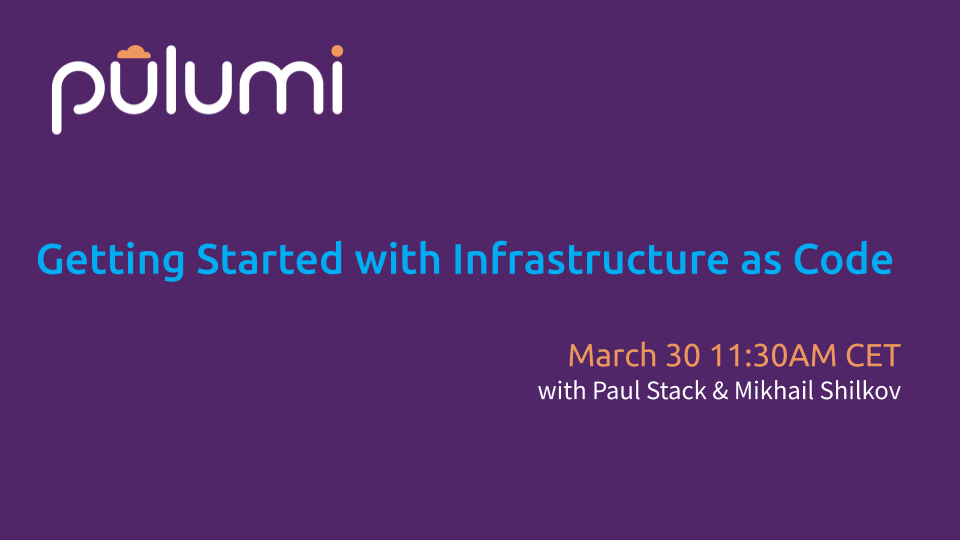
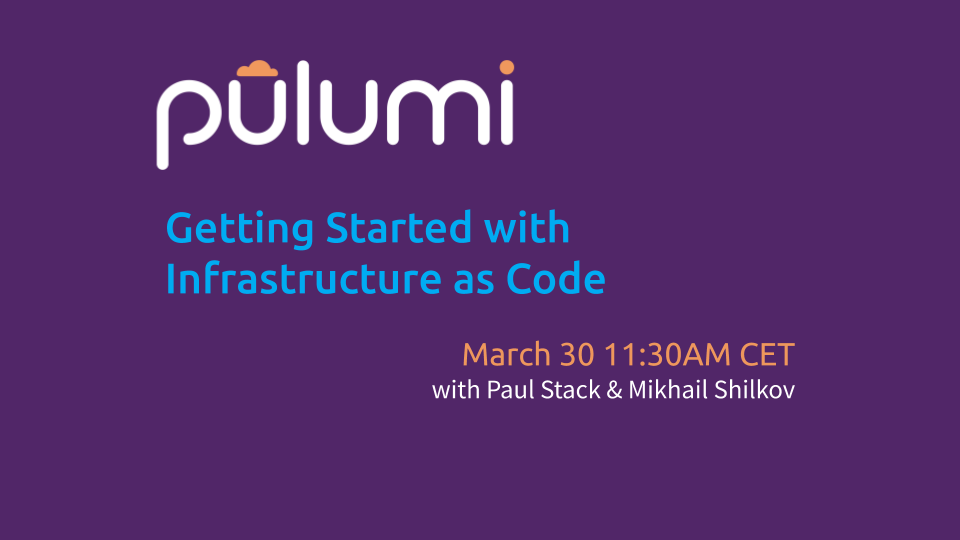
Address feedback

Changed region(s): [[0.0312, 0.3852, 0.9375, 0.563], [0.0312, 0.0889, 0.5312, 0.3259], [0.4375, 0.6222, 0.9375, 0.7407]]

diff --git a/layouts/partials/webinar-list-item.html b/layouts/partials/webinar-list-item.html
@@ -1,17 +1,23 @@
 <li class="w-full md:w-1/2 lg:w-1/3 m-0 p-2">
     <article class="rounded shadow-md bg-white border border-gray-200 mb-10 flex flex-col mx-auto" style="max-width: 320px;">
         <div style="height: 239px;">
-            <div class="w-full h-full bg-contain bg-no-repeat bg-center bg-purple-500" style="background-image: url('{{ .Params.preview_image }}');"></div>
+            {{ if .Params.external }}
+            <a href="{{ .Params.url_slug }}">
+            {{ else }}
+            <a class="text-2xl" href="/webinar/{{ .Params.url_slug }}/">
+            {{ end }}
+                <div class="w-full h-full bg-contain bg-no-repeat bg-center bg-black" style="background-image: url('{{ .Params.preview_image }}');"></div>
+            </a>
         </div>
         <div class="h-32 p-3">
             <h3>
                 {{ if .Params.external }}
-                    <a class="text-2xl" target="_blank" rel="noopener noreferrer" href="{{ .Params.url_slug }}">
+                    <a class="text-xl" target="_blank" rel="noopener noreferrer" href="{{ .Params.url_slug }}">
                         {{ .Params.title }}
                         <i class="text-sm ml-2 fas fa-external-link-alt"></i>
                     </a>
                 {{ else }}
-                    <a class="text-2xl" href="/webinar/{{ .Params.url_slug }}/">
+                    <a class="text-xl" href="/webinar/{{ .Params.url_slug }}/">
                         {{ .Params.title }}
                     </a>
                 {{ end }}

diff --git a/content/webinar/ephemeral-kubernetes/index.md b/content/webinar/ephemeral-kubernetes/index.md
@@ -57,13 +57,4 @@ main:
     # A bullet point list containing what the user will learn during the webinar.
     learn:
         - How to use Pulumi in CI/CD and development to provision, manage, and test Kubernetes clusters and their applications.
-
-# The right hand side webinar setion.
-form:
-    # GoToWebinar webinar key. This key allows us to register people for webinars via the
-    # HubSpot form.
-    gotowebinar_key: ""
-
-    # HubSpot form id.
-    hubspot_form_id: ""
 ---

diff --git a/content/webinar/aws-fargate-and-pulumi/index.md b/content/webinar/aws-fargate-and-pulumi/index.md
@@ -62,10 +62,4 @@ main:
         - How using general purpose programming languages provides familiar and powerful programming concepts
         - How Pulumi can help build a library of code packages to enhance efficiency
         - Best practices for becoming a deployment-focused organization
-
-# The right hand side webinar setion.
-webinar:
-    cta:
-        label: "Watch the Recording"
-        url: "https://www.youtube.com/watch?v=M1Es9e9ICJA&t=1251s"
 ---

diff --git a/content/webinar/aws-mapbox/index.md b/content/webinar/aws-mapbox/index.md
@@ -63,10 +63,4 @@ main:
         - "Pulumi Live demo: Asset tracking at work"
         - "Programing your cloud applications with TypeScript, JavaScript, or Python: Pulumi SDKs and Service"
         - Why serverless tech matters and what it enables
-
-# The right hand side webinar setion.
-webinar:
-    cta:
-        label: "Watch the Recording"
-        url: "https://event.on24.com/wcc/r/2000709/49822D39F0E9038AA2A3A84E04BF575D?partnerref=pulumi"
 ---

diff --git a/content/webinar/breaking-down-dev-and-devops-silos/index.md b/content/webinar/breaking-down-dev-and-devops-silos/index.md
@@ -57,13 +57,4 @@ main:
     # A bullet point list containing what the user will learn during the webinar.
     learn:
         - How Mercedes Benz R&D leverages Pulumi to break down dev and devops silos.
-
-# The right hand side webinar setion.
-form:
-    # GoToWebinar webinar key. This key allows us to register people for webinars via the
-    # HubSpot form.
-    gotowebinar_key: ""
-
-    # HubSpot form id.
-    hubspot_form_id: ""
 ---

diff --git a/content/webinar/intro-to-aws-crosswalk/index.md b/content/webinar/intro-to-aws-crosswalk/index.md
@@ -64,13 +64,4 @@ main:
     learn:
         - How to provision cloud services that are **Well-Architected** by default.
         - Common best practices for production ready infrastructure.
-
-# The right hand side webinar setion.
-form:
-    # GoToWebinar webinar key. This key allows us to register people for webinars via the
-    # HubSpot form.
-    gotowebinar_key: ""
-
-    # HubSpot form id.
-    hubspot_form_id: ""
 ---

diff --git a/content/webinar/deploy-load-balanced-kubernetes/index.md b/content/webinar/deploy-load-balanced-kubernetes/index.md
@@ -57,13 +57,4 @@ main:
     # A bullet point list containing what the user will learn during the webinar.
     learn:
         - Deploy a scalable and load-balanced Kubernetes service.
-
-# The right hand side webinar setion.
-form:
-    # GoToWebinar webinar key. This key allows us to register people for webinars via the
-    # HubSpot form.
-    gotowebinar_key: ""
-
-    # HubSpot form id.
-    hubspot_form_id: ""
 ---

diff --git a/content/webinar/intro-to-policy-as-code/index.md b/content/webinar/intro-to-policy-as-code/index.md
@@ -62,13 +62,4 @@ main:
     learn:
         - How to express business or security rules as functions.
         - Execute policies against Pulumi deployments.
-
-# The right hand side webinar setion.
-form:
-    # GoToWebinar webinar key. This key allows us to register people for webinars via the
-    # HubSpot form.
-    gotowebinar_key: ""
-
-    # HubSpot form id.
-    hubspot_form_id: ""
 ---

diff --git a/content/webinar/getting-started-infrastructure-as-code-2020-03-30/index.md b/content/webinar/getting-started-infrastructure-as-code-2020-03-30/index.md
@@ -61,7 +61,7 @@ main:
         - This is a 100-level introduction to setting up your infrastructure using Pulumi with multiple languages.
         - Cloud programming with your favorite language.
 
-# The right hand side webinar setion.
+# The right hand side webinar section.
 form:
     # GoToWebinar webinar key. This key allows us to register people for webinars via the
     # HubSpot form.

diff --git a/content/webinar/pulumi-v2-virtual-launch/index.md b/content/webinar/pulumi-v2-virtual-launch/index.md
@@ -57,7 +57,7 @@ main:
         - Multi language cloud development
         - Policy as Code - enforcing best practices across organizations.
 
-# The right hand side webinar setion.
+# The right hand side webinar section.
 form:
     # GoToWebinar webinar key. This key allows us to register people for webinars via the
     # HubSpot form.

diff --git a/content/webinar/_index.md b/content/webinar/_index.md
@@ -1,5 +1,5 @@
 ---
 title: Webinars
 meta_desc: |
-    Webinars about moder cloud native topics to connect, collaborate, and learn new techniques and best practices.
+    Webinars about modern cloud native topics to connect, collaborate, and learn new techniques and best practices.
 ---

diff --git a/archetypes/webinar/index.md b/archetypes/webinar/index.md
@@ -57,7 +57,7 @@ main:
     learn:
         - ""
 
-# The right hand side webinar setion.
+# The right hand side form section.
 form:
     # GoToWebinar webinar key. This key allows us to register people for webinars via the
     # HubSpot form.
